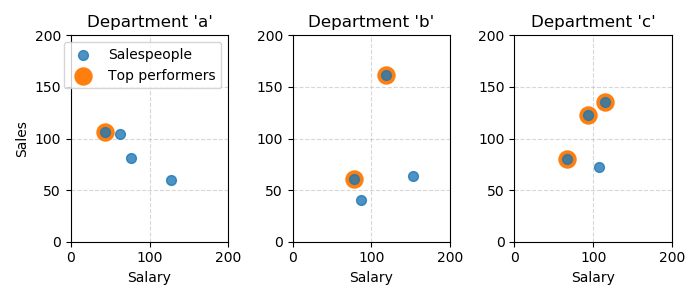
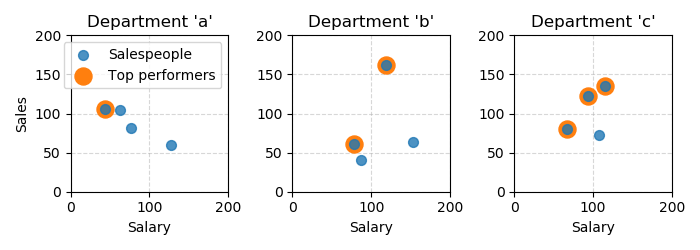
new figures

diff --git a/scripts/examples.py b/scripts/examples.py
@@ -13,7 +13,7 @@ skyline_hotels = hotels[mask]
 # ==================================================
 import matplotlib.pyplot as plt
 
-plt.figure(figsize=(5.5, 3))
+plt.figure(figsize=(6, 2.5))
 
 plt.title("Skyline hotels (Pareto-efficient hotels)")
 
@@ -56,7 +56,7 @@ top_performers = salespeople[mask]
 # ==================================================
 import matplotlib.pyplot as plt
 
-plt.figure(figsize=(7, 3))
+plt.figure(figsize=(7, 2.5))
 # plt.suptitle("Salespeople eligible for a raise (high sales, low salary)", y=1.00)
 
 salespeople_by_dept = salespeople.groupby("department")
@@ -116,7 +116,7 @@ efficient_solutions = [solution for (solution, m) in zip(solutions, mask) if m]
 # ==================================================
 import matplotlib.pyplot as plt
 
-plt.figure(figsize=(5.5, 3))
+plt.figure(figsize=(6, 2.5))
 
 plt.title("Objective value space and efficient solutions")
 
